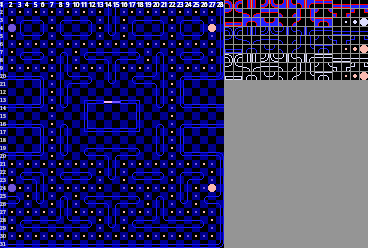
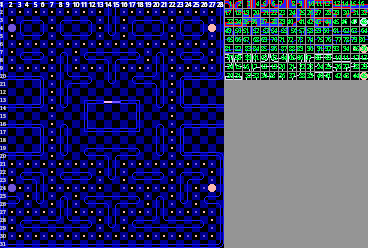
Anadidos los niveles con escenarios

Changed region(s): [[0.5978, 0.0, 1.0, 0.3387]]

diff --git a/animacionPacman/scriptPacman.js b/animacionPacman/scriptPacman.js
@@ -138,7 +138,6 @@ let totalPuntos = 0;
 let barrerasMatriz =
     [
         [
-            //   0               1           2           3           4           5           6           7           8               9       10              11          12          13          14      15          16           17            18          19           20          21          22          23          24          25          26          27
             [{tipo: 100}, {tipo: 100}, {tipo: 100}, {tipo: 100}, {tipo: 100}, {tipo: 100}, {tipo: 100}, {tipo: 100}, {tipo: 100}, {tipo: 100}, {tipo: 100}, {tipo: 100}, {tipo: 100}, {tipo: 100}, {tipo: 100}, {tipo: 100}, {tipo: 100}, {tipo: 100}, {tipo: 100}, {tipo: 100}, {tipo: 100}, {tipo: 100}, {tipo: 100}, {tipo: 100}, {tipo: 100}, {tipo: 100}, {tipo: 100}, {tipo: 100}],
             [{tipo: 100}, {tipo: 100}, {tipo: 100}, {tipo: 100}, {tipo: 100}, {tipo: 100}, {tipo: 100}, {tipo: 100}, {tipo: 100}, {tipo: 100}, {tipo: 100}, {tipo: 100}, {tipo: 100}, {tipo: 100}, {tipo: 100}, {tipo: 100}, {tipo: 100}, {tipo: 100}, {tipo: 100}, {tipo: 100}, {tipo: 100}, {tipo: 100}, {tipo: 100}, {tipo: 100}, {tipo: 100}, {tipo: 100}, {tipo: 100}, {tipo: 100}],
             [{tipo: 1}, {tipo: 10}, {tipo: 10}, {tipo: 10,}, {tipo: 10}, {tipo: 10}, {tipo: 10}, {tipo: 10,}, {tipo: 10}, {tipo: 10}, {tipo: 10}, {tipo: 10,}, {tipo: 10}, {tipo: 8}, {tipo: 9}, {tipo: 10,}, {tipo: 10}, {tipo: 10}, {tipo: 10}, {tipo: 10,}, {tipo: 10}, {tipo: 10}, {tipo: 10}, {tipo: 10,}, {tipo: 10}, {tipo: 10}, {tipo: 10}, {tipo: 0,},],
@@ -154,8 +153,8 @@ let barrerasMatriz =
             [{tipo: 100}, {tipo: 100}, {tipo: 100}, {tipo: 100}, {tipo: 100}, {tipo: 100}, {tipo: 100}, {tipo: 100}, {tipo: 100}, {tipo: 100}, {tipo: 100}, {tipo: 100}, {tipo: 100}, {tipo: 100}, {tipo: 100}, {tipo: 100}, {tipo: 100}, {tipo: 100}, {tipo: 100}, {tipo: 100}, {tipo: 100}, {tipo: 100}, {tipo: 100}, {tipo: 100}, {tipo: 100}, {tipo: 100}, {tipo: 100}, {tipo: 100}]
         ],
         [
-        //   0               1           2           3           4           5           6           7           8               9       10              11          12          13          14      15          16           17            18          19           20          21          22          23          24          25          26          27
-        [{tipo: 100}, {tipo: 100}, {tipo: 100}, {tipo: 100}, {tipo: 100}, {tipo: 100}, {tipo: 100}, {tipo: 100}, {tipo: 100}, {tipo: 100}, {tipo: 100}, {tipo: 100}, {tipo: 100}, {tipo: 100}, {tipo: 100}, {tipo: 100}, {tipo: 100}, {tipo: 100}, {tipo: 100}, {tipo: 100}, {tipo: 100}, {tipo: 100}, {tipo: 100}, {tipo: 100}, {tipo: 100}, {tipo: 100}, {tipo: 100}, {tipo: 100}],
+            //   0               1           2           3           4           5           6           7           8               9       10              11          12          13          14      15          16           17            18          19           20          21          22          23          24          25          26          27
+            [{tipo: 100}, {tipo: 100}, {tipo: 100}, {tipo: 100}, {tipo: 100}, {tipo: 100}, {tipo: 100}, {tipo: 100}, {tipo: 100}, {tipo: 100}, {tipo: 100}, {tipo: 100}, {tipo: 100}, {tipo: 100}, {tipo: 100}, {tipo: 100}, {tipo: 100}, {tipo: 100}, {tipo: 100}, {tipo: 100}, {tipo: 100}, {tipo: 100}, {tipo: 100}, {tipo: 100}, {tipo: 100}, {tipo: 100}, {tipo: 100}, {tipo: 100}],
             [{tipo: 100}, {tipo: 100}, {tipo: 100}, {tipo: 100}, {tipo: 100}, {tipo: 100}, {tipo: 100}, {tipo: 100}, {tipo: 100}, {tipo: 100}, {tipo: 100}, {tipo: 100}, {tipo: 100}, {tipo: 100}, {tipo: 100}, {tipo: 100}, {tipo: 100}, {tipo: 100}, {tipo: 100}, {tipo: 100}, {tipo: 100}, {tipo: 100}, {tipo: 100}, {tipo: 100}, {tipo: 100}, {tipo: 100}, {tipo: 100}, {tipo: 100}],
             [{tipo: 1}, {tipo: 10}, {tipo: 10}, {tipo: 10,}, {tipo: 10}, {tipo: 10}, {tipo: 10}, {tipo: 10,}, {tipo: 10}, {tipo: 10}, {tipo: 10}, {tipo: 10,}, {tipo: 10}, {tipo: 8}, {tipo: 9}, {tipo: 10,}, {tipo: 10}, {tipo: 10}, {tipo: 10}, {tipo: 10,}, {tipo: 10}, {tipo: 10}, {tipo: 10}, {tipo: 10,}, {tipo: 10}, {tipo: 10}, {tipo: 10}, {tipo: 0,},],
             [{tipo: 3}, {tipo: -1}, {tipo: -1}, {tipo: -1,}, {tipo: -1}, {tipo: -1}, {tipo: -1}, {tipo: -1,}, {tipo: -1}, {tipo: -1}, {tipo: -1}, {tipo: -1,}, {tipo: -1}, {tipo: 2}, {tipo: 3}, {tipo: -1,}, {tipo: -1}, {tipo: -1}, {tipo: -1}, {tipo: -1,}, {tipo: -1}, {tipo: -1}, {tipo: -1}, {tipo: -1,}, {tipo: -1}, {tipo: -1}, {tipo: -1}, {tipo: 2,},],
@@ -164,9 +163,39 @@ let barrerasMatriz =
             [{tipo: 3}, {tipo: -1}, {tipo: 27}, {tipo: 20,}, {tipo: 20}, {tipo: 26}, {tipo: -1}, {tipo: 27,}, {tipo: 20}, {tipo: 20}, {tipo: 20}, {tipo: 26,}, {tipo: -1}, {tipo: 2}, {tipo: 3}, {tipo: -1,}, {tipo: 27}, {tipo: 20,}, {tipo: 20}, {tipo: 20}, {tipo: 26}, {tipo: -1}, {tipo: 27,}, {tipo: 20}, {tipo: 20}, {tipo: 26,}, {tipo: -1}, {tipo: 2},],
             [{tipo: 3}, {tipo: -1}, {tipo: -1}, {tipo: -1,}, {tipo: -1}, {tipo: -1}, {tipo: -1}, {tipo: -1,}, {tipo: -1}, {tipo: -1}, {tipo: -1}, {tipo: -1,}, {tipo: -1}, {tipo: -2}, {tipo: -2}, {tipo: -1,}, {tipo: -1}, {tipo: -1}, {tipo: -1}, {tipo: -1,}, {tipo: -1}, {tipo: -1}, {tipo: -1}, {tipo: -1,}, {tipo: -1}, {tipo: -1}, {tipo: -1}, {tipo: 2,},],
             [{tipo: 3}, {tipo: -1}, {tipo: 23}, {tipo: 14,}, {tipo: 14}, {tipo: 38}, {tipo: -1}, {tipo: 23,}, {tipo: 38}, {tipo: -1}, {tipo: 23}, {tipo: 14,}, {tipo: 14}, {tipo: 14}, {tipo: 14}, {tipo: 14}, {tipo: 14,}, {tipo: 38}, {tipo: -1}, {tipo: 23,}, {tipo: 38}, {tipo: -1}, {tipo: 23}, {tipo: 14,}, {tipo: 14}, {tipo: 38}, {tipo: -1}, {tipo: 2,},],
-            [{tipo: 3}, {tipo: -1}, {tipo: 27}, {tipo: 20,}, {tipo: 20}, {tipo: 26}, {tipo: -1}, {tipo: 2,}, {tipo: 3}, {tipo: -1}, {tipo: 27}, {tipo: 20,}, {tipo: 20}, {tipo: 20}, {tipo: 20}, {tipo: 20,}, {tipo: 20}, {tipo: 26,}, {tipo: -1}, {tipo: 2}, {tipo: 3}, {tipo: -1}, {tipo: 27,}, {tipo: 20}, {tipo: 20}, {tipo: 26,}, {tipo: -1}, {tipo: 2},],
-            [{tipo: 3}, {tipo: -1}, {tipo: -1}, {tipo: -1,}, {tipo: -1}, {tipo: -1}, {tipo: -1}, {tipo: 2,}, {tipo: 3}, {tipo: -1}, {tipo: -1}, {tipo: -1,}, {tipo: -1}, {tipo: -1}, {tipo: -1}, {tipo: -1,}, {tipo: -1}, {tipo: -1}, {tipo: -1}, {tipo: 2,}, {tipo: 3}, {tipo: -1}, {tipo: -1}, {tipo: -1,}, {tipo: -1}, {tipo: -1}, {tipo: -1}, {tipo: 2,},],
-            [{tipo: 5}, {tipo: 12}, {tipo: 12}, {tipo: 12,}, {tipo: 12}, {tipo: 12}, {tipo: 12}, {tipo: 12,}, {tipo: 12}, {tipo: 12}, {tipo: 12}, {tipo: 12,}, {tipo: 12}, {tipo: 12}, {tipo: 12}, {tipo: 12,}, {tipo: 12}, {tipo: 12}, {tipo: 12}, {tipo: 12,}, {tipo: 12}, {tipo: 12}, {tipo: 12}, {tipo: 12,}, {tipo: 12}, {tipo: 12}, {tipo: 12}, {tipo: 4,},],
+            [{tipo: 3}, {tipo: -1}, {tipo: 27}, {tipo: 20,}, {tipo: 20}, {tipo: 26}, {tipo: -1}, {tipo: 2,}, {tipo: 3}, {tipo: -1}, {tipo: 27}, {tipo: 20,}, {tipo: 20}, {tipo: 20}, {tipo: 20}, {tipo: 20,}, {tipo: 20}, {tipo: 26,}, {tipo: -1}, {tipo: 2,}, {tipo: 3}, {tipo: -1}, {tipo: 27,}, {tipo: 20}, {tipo: 20}, {tipo: 26,}, {tipo: -1}, {tipo: 2},],
+            [{tipo: 3}, {tipo: -1}, {tipo: -1}, {tipo: -1,}, {tipo: -1}, {tipo: -1}, {tipo: -1}, {tipo: 2,}, {tipo: 3}, {tipo: -1}, {tipo: -1}, {tipo: -1,}, {tipo: -1}, {tipo: 2}, {tipo: 3}, {tipo: -1,}, {tipo: -1}, {tipo: -1}, {tipo: -1}, {tipo: 2,}, {tipo: 3}, {tipo: -1}, {tipo: -1}, {tipo: -1,}, {tipo: -1}, {tipo: -1}, {tipo: -1}, {tipo: 2,},],
+            [{tipo: 3}, {tipo: 10}, {tipo: 10}, {tipo: 10,}, {tipo: 10}, {tipo: 0}, {tipo: -1}, {tipo: 2,}, {tipo: 3}, {tipo: 14}, {tipo: 14}, {tipo: 38,}, {tipo: -1}, {tipo: 2}, {tipo: 3}, {tipo: -1,}, {tipo: 23}, {tipo: 14}, {tipo: 14}, {tipo: 2,}, {tipo: 3}, {tipo: -1}, {tipo: 1}, {tipo: 10,}, {tipo: 10}, {tipo: 10}, {tipo: 10}, {tipo: 2,},],
+            [{tipo: 3}, {tipo: -2}, {tipo: -2}, {tipo: -2,}, {tipo: -2}, {tipo: 2}, {tipo: -1},{tipo: 2,}, {tipo: 3}, {tipo: 20}, {tipo: 20}, {tipo: 26}, {tipo: -1}, {tipo: 27}, {tipo: 26}, {tipo: -1,}, {tipo: 27}, {tipo: 20}, {tipo: 20}, {tipo: 2,}, {tipo: 3}, {tipo: -1}, {tipo: 3}, {tipo: -2,}, {tipo: -2}, {tipo: -2}, {tipo: -2}, {tipo: 2,},],
+            [{tipo: 3}, {tipo: -2}, {tipo: -2}, {tipo: -2,}, {tipo: -2}, {tipo: 2}, {tipo: -1},{tipo: 2,}, {tipo: 3}, {tipo: -1}, {tipo: -1}, {tipo: -1,}, {tipo: -1}, {tipo: -1}, {tipo: -1}, {tipo: -1,}, {tipo: -1}, {tipo: -1}, {tipo: -1}, {tipo: 2,}, {tipo: 3}, {tipo: -1}, {tipo: 3}, {tipo: -2,}, {tipo: -2}, {tipo: -2}, {tipo: -2}, {tipo: 2,},],
+            [{tipo: 3}, {tipo: -2}, {tipo: -2}, {tipo: -2,}, {tipo: -2}, {tipo: 2}, {tipo: -1},{tipo: 2,}, {tipo: 3}, {tipo: -1}, {tipo: 23}, {tipo: 38,}, {tipo: -1}, {tipo: -2}, {tipo: -2}, {tipo: -1,}, {tipo: 23}, {tipo: 38}, {tipo: -1}, {tipo: 2,}, {tipo: 3}, {tipo: -1}, {tipo: 3}, {tipo: -2,}, {tipo: -2}, {tipo: -2}, {tipo: -2}, {tipo: 2,},],
+            [{tipo: 3}, {tipo: -2}, {tipo: -2}, {tipo: -2,}, {tipo: -2}, {tipo: 2}, {tipo: -1},{tipo: 2,}, {tipo: 3}, {tipo: -1}, {tipo: 2}, {tipo: 3,}, {tipo: -1}, {tipo: 2}, {tipo: 3}, {tipo: -1,}, {tipo: 2}, {tipo: 3}, {tipo: -1}, {tipo: 2,}, {tipo: 3}, {tipo: -1}, {tipo: 3}, {tipo: -2,}, {tipo: -2}, {tipo: -2}, {tipo: -2}, {tipo: 2,},],
+            [{tipo: 3}, {tipo: 14}, {tipo: 14}, {tipo: 14,}, {tipo: 14}, {tipo: 4}, {tipo: -1}, {tipo: 27,}, {tipo: 26}, {tipo: -1}, {tipo: 27}, {tipo: 26,}, {tipo: -1}, {tipo: 2}, {tipo: 3}, {tipo: -1,}, {tipo: 27}, {tipo: 26}, {tipo: -1}, {tipo: 27,}, {tipo: 26}, {tipo: -1}, {tipo: 5}, {tipo: 12,}, {tipo: 12}, {tipo: 12}, {tipo: 12}, {tipo: 2,},],
+            [{tipo: 3}, {tipo: -1}, {tipo: -1}, {tipo: -1,}, {tipo: -1}, {tipo: -1}, {tipo: -1}, {tipo: -1,}, {tipo: -1}, {tipo: -1}, {tipo: -1}, {tipo: -1,}, {tipo: -1}, {tipo: 2}, {tipo: 3}, {tipo: -1,}, {tipo: -1}, {tipo: -1}, {tipo: -1}, {tipo: -1,}, {tipo: -1}, {tipo: -1}, {tipo: -1}, {tipo: -1,}, {tipo: -1}, {tipo: -1}, {tipo: -1}, {tipo: 2,},],
+            [{tipo: 5}, {tipo: 12}, {tipo: 12}, {tipo: 12,}, {tipo: 12}, {tipo: 12}, {tipo: 12}, {tipo: 12,}, {tipo: 12}, {tipo: 12}, {tipo: 12}, {tipo: 12,}, {tipo: 12}, {tipo: 6}, {tipo: 7}, {tipo: 12,}, {tipo: 12}, {tipo: 12}, {tipo: 12}, {tipo: 12,}, {tipo: 12}, {tipo: 12}, {tipo: 12}, {tipo: 12,}, {tipo: 12}, {tipo: 12}, {tipo: 12}, {tipo: 4,},],
+            [{tipo: 100}, {tipo: 100}, {tipo: 100}, {tipo: 100}, {tipo: 100}, {tipo: 100}, {tipo: 100}, {tipo: 100}, {tipo: 100}, {tipo: 100}, {tipo: 100}, {tipo: 100}, {tipo: 100}, {tipo: 100}, {tipo: 100}, {tipo: 100}, {tipo: 100}, {tipo: 100}, {tipo: 100}, {tipo: 100}, {tipo: 100}, {tipo: 100}, {tipo: 100}, {tipo: 100}, {tipo: 100}, {tipo: 100}, {tipo: 100}, {tipo: 100}]
+        ],
+        [
+            //   0               1           2           3           4           5           6           7           8               9       10              11          12          13          14      15          16           17            18          19           20          21          22          23          24          25          26          27
+            [{tipo: 100}, {tipo: 100}, {tipo: 100}, {tipo: 100}, {tipo: 100}, {tipo: 100}, {tipo: 100}, {tipo: 100}, {tipo: 100}, {tipo: 100}, {tipo: 100}, {tipo: 100}, {tipo: 100}, {tipo: 100}, {tipo: 100}, {tipo: 100}, {tipo: 100}, {tipo: 100}, {tipo: 100}, {tipo: 100}, {tipo: 100}, {tipo: 100}, {tipo: 100}, {tipo: 100}, {tipo: 100}, {tipo: 100}, {tipo: 100}, {tipo: 100}],
+            [{tipo: 100}, {tipo: 100}, {tipo: 100}, {tipo: 100}, {tipo: 100}, {tipo: 100}, {tipo: 100}, {tipo: 100}, {tipo: 100}, {tipo: 100}, {tipo: 100}, {tipo: 100}, {tipo: 100}, {tipo: 100}, {tipo: 100}, {tipo: 100}, {tipo: 100}, {tipo: 100}, {tipo: 100}, {tipo: 100}, {tipo: 100}, {tipo: 100}, {tipo: 100}, {tipo: 100}, {tipo: 100}, {tipo: 100}, {tipo: 100}, {tipo: 100}],
+            [{tipo: 1}, {tipo: 10}, {tipo: 10}, {tipo: 10,}, {tipo: 10}, {tipo: 10}, {tipo: 10}, {tipo: 10,}, {tipo: 10}, {tipo: 10}, {tipo: 10}, {tipo: 10,}, {tipo: 10}, {tipo: 8}, {tipo: 9}, {tipo: 10,}, {tipo: 10}, {tipo: 10}, {tipo: 10}, {tipo: 10,}, {tipo: 10}, {tipo: 10}, {tipo: 10}, {tipo: 10,}, {tipo: 10}, {tipo: 10}, {tipo: 10}, {tipo: 0,},],
+            [{tipo: 3}, {tipo: -1}, {tipo: -1}, {tipo: -1,}, {tipo: -1}, {tipo: -1}, {tipo: -1}, {tipo: -1,}, {tipo: -1}, {tipo: -1}, {tipo: -1}, {tipo: -1,}, {tipo: -1}, {tipo: 2}, {tipo: 3}, {tipo: -1,}, {tipo: -1}, {tipo: -1}, {tipo: -1}, {tipo: -1,}, {tipo: -1}, {tipo: -1}, {tipo: -1}, {tipo: -1,}, {tipo: -1}, {tipo: -1}, {tipo: -1}, {tipo: 2,},],
+            [{tipo: 3}, {tipo: -1}, {tipo: 23}, {tipo: 14,}, {tipo: 14}, {tipo: 38}, {tipo: -1}, {tipo: 23,}, {tipo: 14}, {tipo: 14}, {tipo: 14}, {tipo: 38,}, {tipo: -1}, {tipo: 2}, {tipo: 3}, {tipo: -1,}, {tipo: 23,}, {tipo: 14}, {tipo: 14}, {tipo: 14}, {tipo: 38,}, {tipo: -1}, {tipo: 23}, {tipo: 14,}, {tipo: 14}, {tipo: 38}, {tipo: -1}, {tipo: 2,},],
+            [{tipo: 3}, {tipo: -1}, {tipo: 25}, {tipo: -2,}, {tipo: -2}, {tipo: 24}, {tipo: -1}, {tipo: 25,}, {tipo: -2}, {tipo: -2}, {tipo: -2}, {tipo: 24,}, {tipo: -1}, {tipo: 2}, {tipo: 3}, {tipo: -1,}, {tipo: 25}, {tipo: -2}, {tipo: -2}, {tipo: -2,}, {tipo: 24}, {tipo: -1}, {tipo: 25}, {tipo: -2,}, {tipo: -2}, {tipo: 24}, {tipo: -1}, {tipo: 2,},],
+            [{tipo: 3}, {tipo: -1}, {tipo: 27}, {tipo: 20,}, {tipo: 20}, {tipo: 26}, {tipo: -1}, {tipo: 27,}, {tipo: 20}, {tipo: 20}, {tipo: 20}, {tipo: 26,}, {tipo: -1}, {tipo: 2}, {tipo: 3}, {tipo: -1,}, {tipo: 27}, {tipo: 20,}, {tipo: 20}, {tipo: 20}, {tipo: 26}, {tipo: -1}, {tipo: 27,}, {tipo: 20}, {tipo: 20}, {tipo: 26,}, {tipo: -1}, {tipo: 2},],
+            [{tipo: 3}, {tipo: -1}, {tipo: -1}, {tipo: -1,}, {tipo: -1}, {tipo: -1}, {tipo: -1}, {tipo: -1,}, {tipo: -1}, {tipo: -1}, {tipo: -1}, {tipo: -1,}, {tipo: -1}, {tipo: -2}, {tipo: -2}, {tipo: -1,}, {tipo: -1}, {tipo: -1}, {tipo: -1}, {tipo: -1,}, {tipo: -1}, {tipo: -1}, {tipo: -1}, {tipo: -1,}, {tipo: -1}, {tipo: -1}, {tipo: -1}, {tipo: 2,},],
+            [{tipo: 3}, {tipo: -1}, {tipo: 23}, {tipo: 14,}, {tipo: 14}, {tipo: 38}, {tipo: -1}, {tipo: 23,}, {tipo: 38}, {tipo: -1}, {tipo: 23}, {tipo: 14,}, {tipo: 14}, {tipo: 14}, {tipo: 14}, {tipo: 14}, {tipo: 14,}, {tipo: 38}, {tipo: -1}, {tipo: 23,}, {tipo: 38}, {tipo: -1}, {tipo: 23}, {tipo: 14,}, {tipo: 14}, {tipo: 38}, {tipo: -1}, {tipo: 2,},],
+            [{tipo: 3}, {tipo: -1}, {tipo: 27}, {tipo: 20,}, {tipo: 20}, {tipo: 26}, {tipo: -1}, {tipo: 2,}, {tipo: 3}, {tipo: -1}, {tipo: 27}, {tipo: 20,}, {tipo: 20}, {tipo: 20}, {tipo: 20}, {tipo: 20,}, {tipo: 20}, {tipo: 26,}, {tipo: -1}, {tipo: 2,}, {tipo: 3}, {tipo: -1}, {tipo: 27,}, {tipo: 20}, {tipo: 20}, {tipo: 26,}, {tipo: -1}, {tipo: 2},],
+            [{tipo: 3}, {tipo: -1}, {tipo: -1}, {tipo: -1,}, {tipo: -1}, {tipo: -1}, {tipo: -1}, {tipo: 2,}, {tipo: 3}, {tipo: -1}, {tipo: -1}, {tipo: -1,}, {tipo: -1}, {tipo: 2}, {tipo: 3}, {tipo: -1,}, {tipo: -1}, {tipo: -1}, {tipo: -1}, {tipo: 2,}, {tipo: 3}, {tipo: -1}, {tipo: -1}, {tipo: -1,}, {tipo: -1}, {tipo: -1}, {tipo: -1}, {tipo: 2,},],
+            [{tipo: 3}, {tipo: 10}, {tipo: 10}, {tipo: 10,}, {tipo: 10}, {tipo: 0}, {tipo: -1}, {tipo: 2,}, {tipo: 3}, {tipo: 14}, {tipo: 14}, {tipo: 38,}, {tipo: -1}, {tipo: 2}, {tipo: 3}, {tipo: -1,}, {tipo: 23}, {tipo: 14}, {tipo: 14}, {tipo: 2,}, {tipo: 3}, {tipo: -1}, {tipo: 1}, {tipo: 10,}, {tipo: 10}, {tipo: 10}, {tipo: 10}, {tipo: 2,},],
+            [{tipo: 3}, {tipo: -2}, {tipo: -2}, {tipo: -2,}, {tipo: -2}, {tipo: 2}, {tipo: -1},{tipo: 2,}, {tipo: 3}, {tipo: 20}, {tipo: 20}, {tipo: 26}, {tipo: -1}, {tipo: 27}, {tipo: 26}, {tipo: -1,}, {tipo: 27}, {tipo: 20}, {tipo: 20}, {tipo: 2,}, {tipo: 3}, {tipo: -1}, {tipo: 3}, {tipo: -2,}, {tipo: -2}, {tipo: -2}, {tipo: -2}, {tipo: 2,},],
+            [{tipo: 3}, {tipo: -2}, {tipo: -2}, {tipo: -2,}, {tipo: -2}, {tipo: 2}, {tipo: -1},{tipo: 2,}, {tipo: 3}, {tipo: -1}, {tipo: -1}, {tipo: -1,}, {tipo: -1}, {tipo: -1}, {tipo: -1}, {tipo: -1,}, {tipo: -1}, {tipo: -1}, {tipo: -1}, {tipo: 2,}, {tipo: 3}, {tipo: -1}, {tipo: 3}, {tipo: -2,}, {tipo: -2}, {tipo: -2}, {tipo: -2}, {tipo: 2,},],
+            [{tipo: 3}, {tipo: -2}, {tipo: -2}, {tipo: -2,}, {tipo: -2}, {tipo: 2}, {tipo: -1},{tipo: 2,}, {tipo: 3}, {tipo: -1}, {tipo: 23}, {tipo: 38,}, {tipo: -1}, {tipo: -2}, {tipo: -2}, {tipo: -1,}, {tipo: 23}, {tipo: 38}, {tipo: -1}, {tipo: 2,}, {tipo: 3}, {tipo: -1}, {tipo: 3}, {tipo: -2,}, {tipo: -2}, {tipo: -2}, {tipo: -2}, {tipo: 2,},],
+            [{tipo: 3}, {tipo: -2}, {tipo: -2}, {tipo: -2,}, {tipo: -2}, {tipo: 2}, {tipo: -1},{tipo: 2,}, {tipo: 3}, {tipo: -1}, {tipo: 2}, {tipo: 3,}, {tipo: -1}, {tipo: 2}, {tipo: 3}, {tipo: -1,}, {tipo: 2}, {tipo: 3}, {tipo: -1}, {tipo: 2,}, {tipo: 3}, {tipo: -1}, {tipo: 3}, {tipo: -2,}, {tipo: -2}, {tipo: -2}, {tipo: -2}, {tipo: 2,},],
+            [{tipo: 3}, {tipo: -2}, {tipo: -2}, {tipo: -2}, {tipo: -2}, {tipo: 2}, {tipo: -1}, {tipo: 27,}, {tipo: 26}, {tipo: -1}, {tipo: 27}, {tipo: 26,}, {tipo: -1}, {tipo: 2}, {tipo: 3}, {tipo: -1,}, {tipo: 27}, {tipo: 26}, {tipo: -1}, {tipo: 27,}, {tipo: 26}, {tipo: -1}, {tipo: 3}, {tipo: -2,}, {tipo: -2}, {tipo: -2}, {tipo: -2}, {tipo: 2,},],
+            [{tipo: 3}, {tipo: -2}, {tipo: -2}, {tipo: -2}, {tipo: -2}, {tipo: 2}, {tipo: -1}, {tipo: -1,}, {tipo: -1}, {tipo: -1}, {tipo: -1}, {tipo: -1,}, {tipo: -1}, {tipo: 2}, {tipo: 3}, {tipo: -1,}, {tipo: -1}, {tipo: -1}, {tipo: -1}, {tipo: -1,}, {tipo: -1}, {tipo: -1}, {tipo: 3}, {tipo: -2}, {tipo: -2}, {tipo: -2}, {tipo: -2}, {tipo: 2,},],
+            [{tipo: 5}, {tipo: 12}, {tipo: 12}, {tipo: 12,}, {tipo: 12}, {tipo: 12}, {tipo: 12}, {tipo: 12,}, {tipo: 12}, {tipo: 12}, {tipo: 12}, {tipo: 12,}, {tipo: 12}, {tipo: 6}, {tipo: 7}, {tipo: 12,}, {tipo: 12}, {tipo: 12}, {tipo: 12}, {tipo: 12,}, {tipo: 12}, {tipo: 12}, {tipo: 12}, {tipo: 12,}, {tipo: 12}, {tipo: 12}, {tipo: 12}, {tipo: 4,},],
             [{tipo: 100}, {tipo: 100}, {tipo: 100}, {tipo: 100}, {tipo: 100}, {tipo: 100}, {tipo: 100}, {tipo: 100}, {tipo: 100}, {tipo: 100}, {tipo: 100}, {tipo: 100}, {tipo: 100}, {tipo: 100}, {tipo: 100}, {tipo: 100}, {tipo: 100}, {tipo: 100}, {tipo: 100}, {tipo: 100}, {tipo: 100}, {tipo: 100}, {tipo: 100}, {tipo: 100}, {tipo: 100}, {tipo: 100}, {tipo: 100}, {tipo: 100}]
         ]
     ]
@@ -183,7 +212,6 @@ function pantallaCarga() {
         inicioJuego.play()
     }
 }
-
 
 function decisionPantallas() {
     if (cargaPantalla) {
@@ -411,6 +439,7 @@ function subirNivel() {
         ctx.fillStyle = "white";
         ctx.fillText("LEVEL UP", 200, 100);
         subirNivelBool = true;
+        blinkyMov += 1;
         reinicio();
     }
 }
@@ -635,7 +664,6 @@ function dibujar() {
     if (!finJuego) {
         pantallaCarga();
         dibujaBarrera();
-//        detectarBarrera();
         dibujarMarcador();
         movimientoFantasma();
         movimientoFantasmaPinky();
@@ -667,7 +695,6 @@ function dibujaBarrera() {
     let recuentoPuntos = 0;
     for (c = 0; c < barrerasMatriz[nivel].length; c++) {
         for (r = 0; r < barrerasMatriz[nivel][c].length; r++) {
-
             if (barrerasMatriz[nivel][c][r].tipo >= 0 && barrerasMatriz[nivel][c][r].tipo <= 99) {
                 let accesoBloque = barrerasMatriz[nivel][c][r];
                 let xBarrera = (r * 18);
@@ -690,9 +717,7 @@ function dibujaBarrera() {
                     ctx.beginPath();
                     ctx.drawImage(punto, 0, 0, 8, 8, xBarrera, yBarrera, 6, 6)
                     ctx.closePath();
-
                 }
-
             }
         }
     }
@@ -716,7 +741,7 @@ function detectarBarrera() {
                 barreraBool = false;
             } else {
                 if (accesoBloque.tipo === -1) {
-                    if (accesoBloque.x < xActual + pacmanTam && accesoBloque.x + pacmanTam > xActual && accesoBloque.y < yActual + pacmanTam && pacmanTam + accesoBloque.y > yActual) {
+                    if (accesoBloque.x < xActual + pacmanTam  && accesoBloque.x + pacmanTam> xActual && accesoBloque.y < yActual + pacmanTam && pacmanTam + accesoBloque.y > yActual) {
                         marcador += 1;
                         accesoBloque.tipo = -2;
                         if (decisionAudio) {
@@ -745,7 +770,6 @@ function detectarBarreraFantasma() {
                 }
                 barreraFantasma = false;
             }
-
         }
     }
 }
@@ -760,7 +784,6 @@ function detectarBarreraFantasmaPinky() {
                 }
                 barreraFantasmaPinky = false;
             }
-
         }
     }
 }
